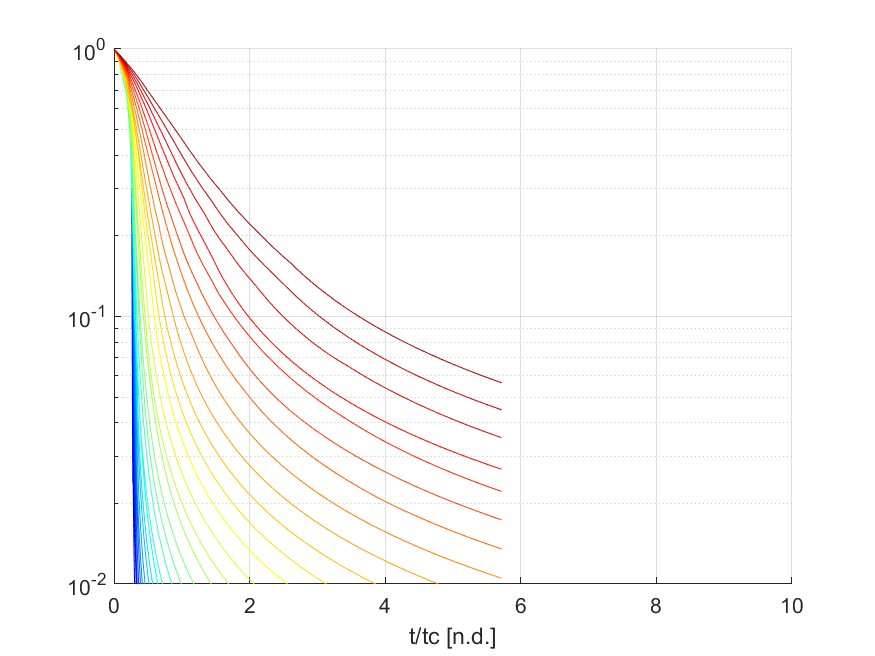
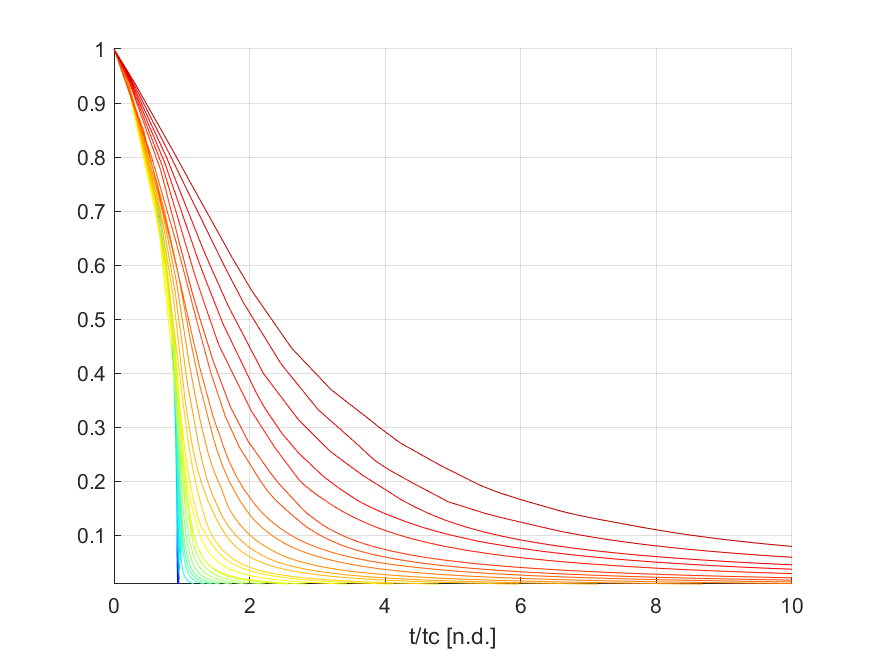
Random commit

diff --git a/Script_testing.m b/Script_testing.m
@@ -7,14 +7,14 @@ clf
 
 eta0 = 1e21; 
 eta0D = 10*eta0;
-L0    = 500e3;
+L0    = 300e3;
 D0    = 80e3; 
 n     = 3.5; 
 tau0  = 100e6;
 drho   = 2*tau0/(9.81*L0);
 B_n   = tau0^(1-n)/eta0;
 B_d   = 1/eta0D; 
-etaUM_vec =10.^(17:0.1:20); 
+etaUM_vec =10.^(16:0.1:20); 
 name_1 = num2str(log10(eta0));
 
 D = D0;
@@ -38,7 +38,7 @@ D = TD(2,:);
 hold on 
 plot(T,D,'Color',cc(i,:))
 
-set(gca, 'YScale', 'log')
+%set(gca, 'YScale', 'log')
 grid on 
 xlim([0,10])
 ylim([10^(-2),10^(0)])

diff --git a/Compute_dddt_Drag.m b/Compute_dddt_Drag.m
@@ -45,7 +45,7 @@ tau_norm = 1./D_norm;
 
 %plot_time_evolution(t/td,D_norm,'D',append('D',name_1,'_',num2str(L0),'_',num2str(D0),'_',num2str(log10(etaUM))),n)
 %plot_time_evolution(t/td,tau_norm,'tau',append('tau',name_1,'_',num2str(L0),'_',num2str(D0),'_',num2str(log10(etaUM))),n)
-Testdata(1,:)=t/tc;
+Testdata(1,:)=t/td;
 Testdata(2,:)=D_norm;
 
 
